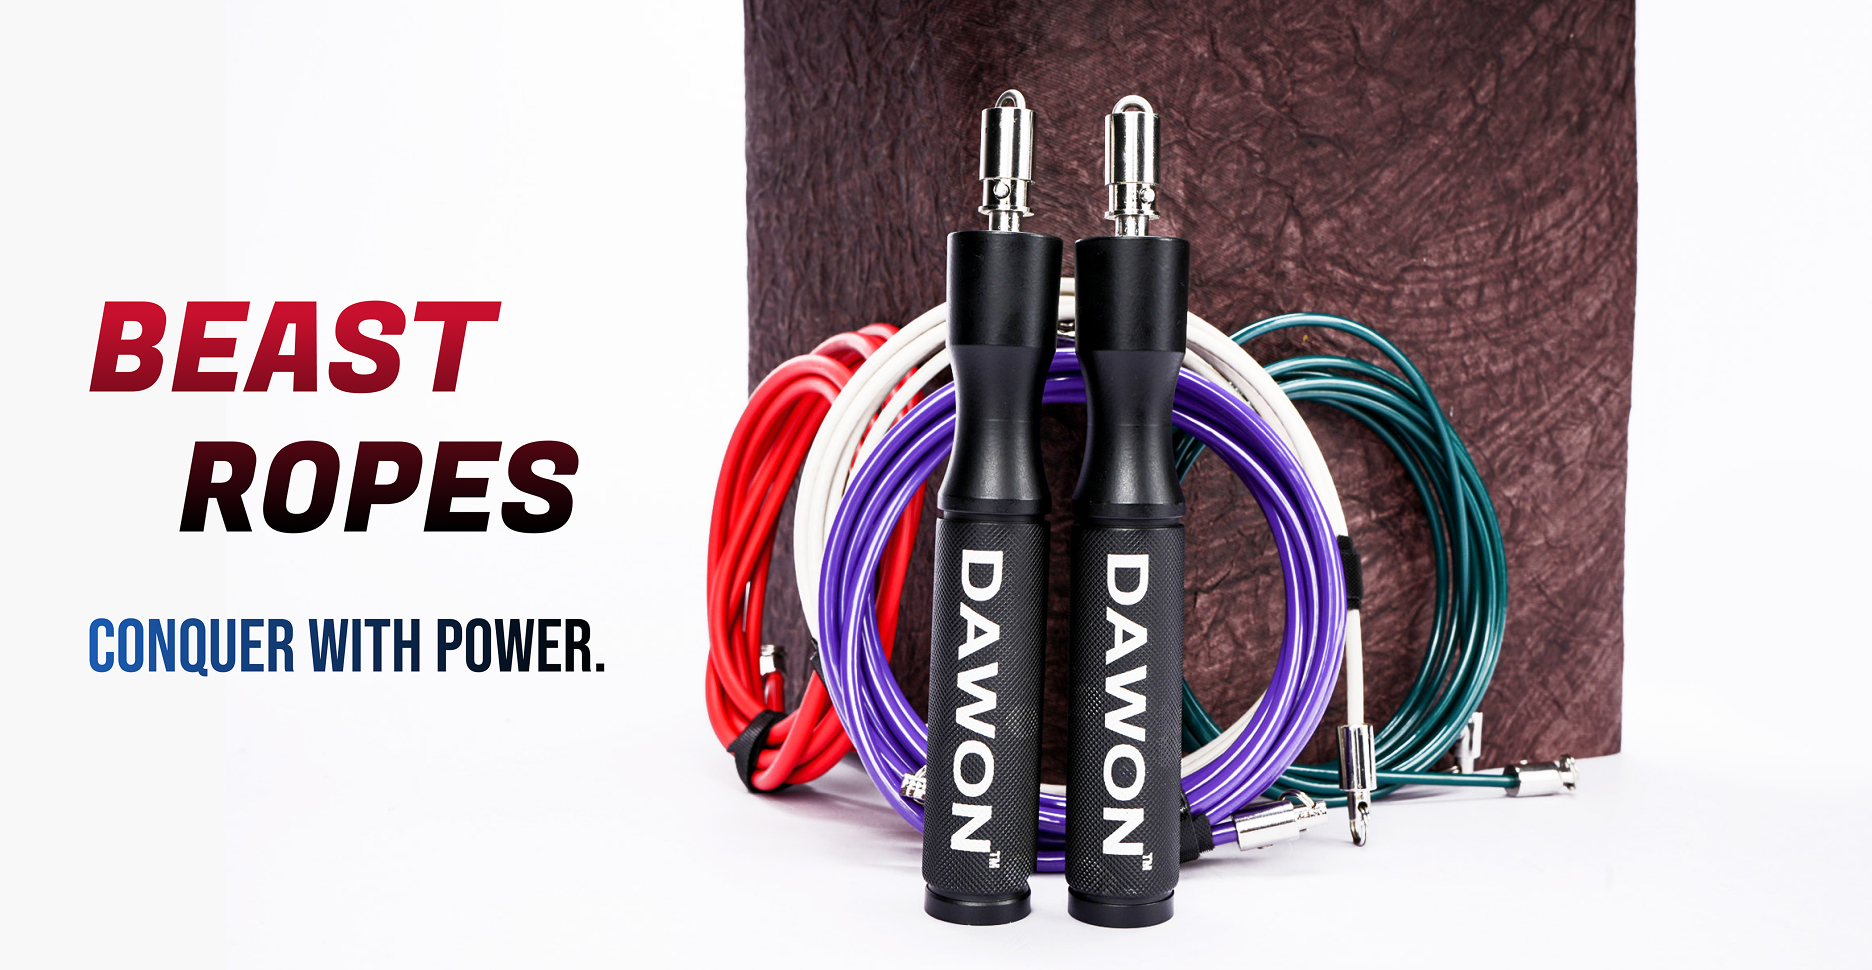
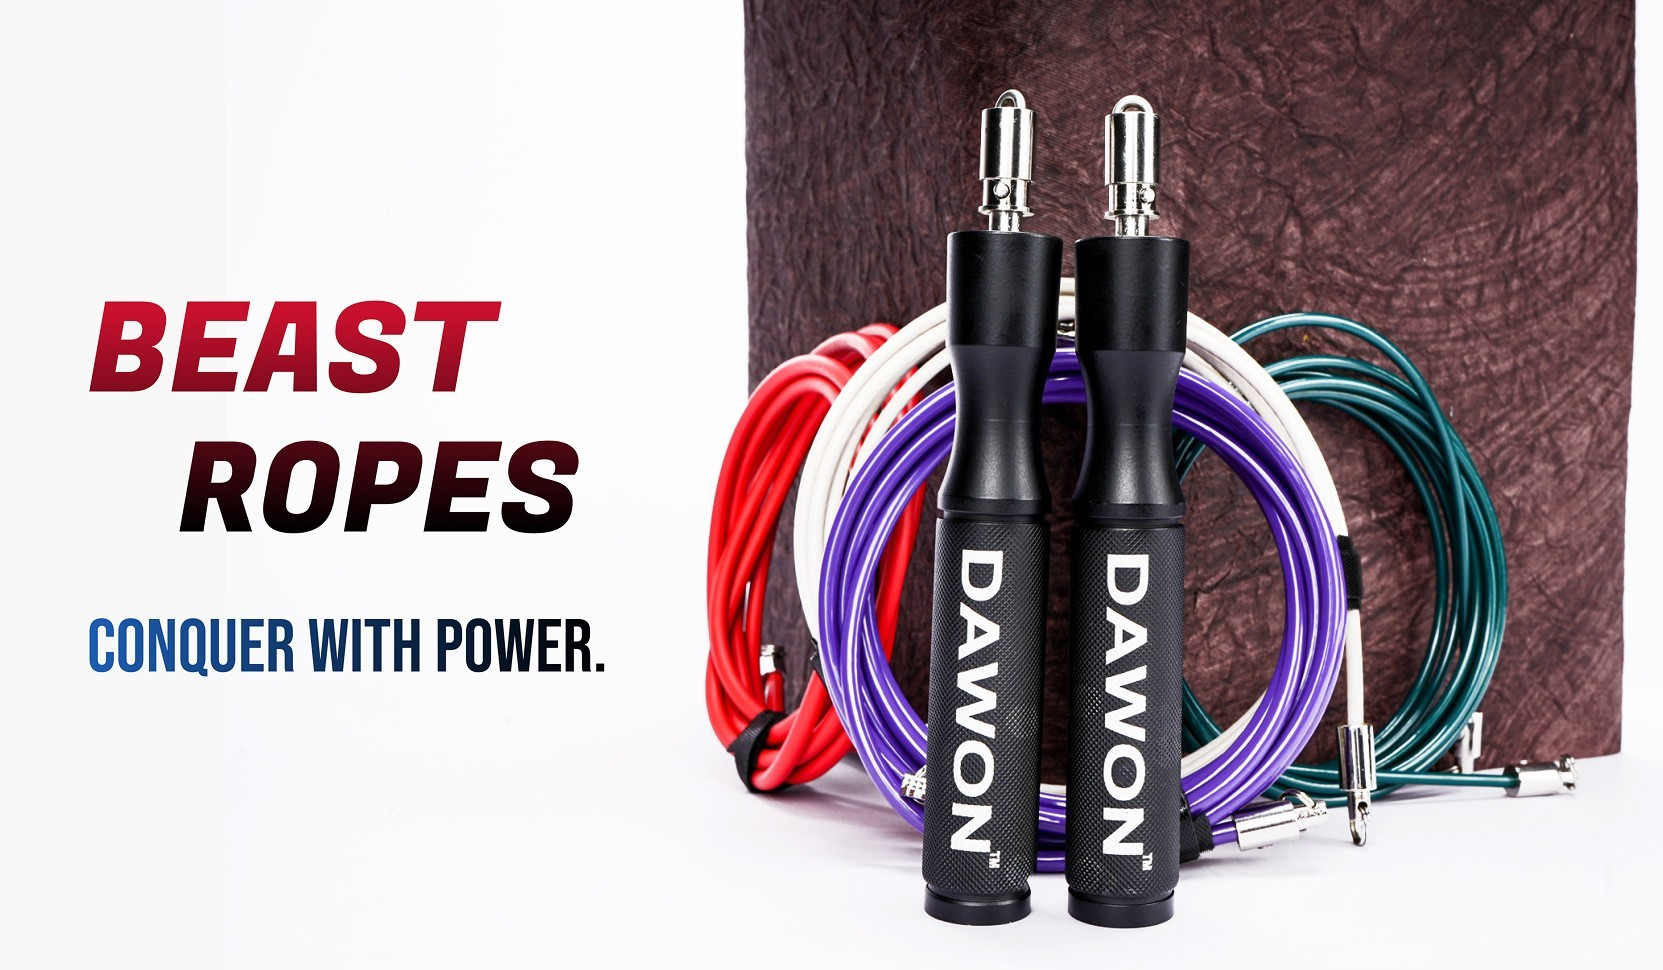
dS

diff --git a/dawonproduct.html b/dawonproduct.html
@@ -331,7 +331,7 @@ Ideal for cardio, coordination.
 
 <!-- Version for ≥1440px (Background image hero) -->
 <section class="hero d-none d-xxl-flex">
-  <img src="image/sppeeds.jpg" >
+  <img src="image/speedbanner.jpg" >
   <!-- <div class="hero-content">
     <h1><span class="speed">SPEED</span><br><span class="ropes">ROPES</span></h1>
     <p><span class="master">MASTER</span> <span class="your-motion">YOUR MOTION.</span></p>
@@ -350,8 +350,8 @@ Ideal for cardio, coordination.
           <span class="ropes">ROPES</span>
         </h1>
         <p>
-          <span class="master">MASTER</span>
-          <span class="your-motion">YOUR MOTION.</span>
+          <span class="master">LIGHT.</span>
+          <span class="your-motion">FAST.UNSTOPPABLE</span>
         </p>
       </div>
 
@@ -514,7 +514,7 @@ Perfect for refining rhythm .           </p>
 <!-- Astar  banner-->
 <!-- Version for ≥1440px (Background image hero) -->
 <section class="banner d-none d-xxl-flex">
-  <img src="image/astarbanner.png" >
+  <img src="image/astarbanner1.jpg" >
   <!-- <div class="hero-content">
     <h1><span class="speed">SPEED</span><br><span class="ropes">ROPES</span></h1>
     <p><span class="master">MASTER</span> <span class="your-motion">YOUR MOTION.</span></p>
@@ -526,7 +526,7 @@ Perfect for refining rhythm .           </p>
       <div class="row align-items-center">
         <div class="col-md-5 text-center ">
                 <h1><span class="speed">ASTAR </span><br><span class="ropes">ROPES</span></h1>
-          <h4 class="text-gradient-blue-black">POWER MEETS PRECISION.</h4>
+          <h4 class="text-gradient-blue-black">STRENGTH MEETS STYLE.</h4>
         </div>
         <div class="col-md-7 text-center">
           <img src="image/astar.png" alt="Astar Rope" class="img-fluid">
@@ -679,25 +679,37 @@ athletes pushing limits in strength.
     </div>
   </div>
 </section>
-<!--  Rope ACCESSORIES Banner - Visible above 768px -->
-<section class="heros d-none d-md-block">
-  <img src="image/ropeaccess.jpg" class="img-fluid" alt=" Rope ACCESSORIES Banner" style="width: 100%; height: 100%;">
-</section>
+<!-- beast rope banner -->
+    <section class="heros  d-none d-xxl-flex">
+      <img src="image/beastbanner.jpg">
+    <!-- <div class="heros-content">
+      <h1><span class="speed">  BEAST </span><br><span class="ropes">ROPES</span></h1>
+      <p><span class="master">CONQUER</span> <span class="your-motion"> WITH POWER.</span></p>
+    </div> -->
+  </section>
+<section class="beast-hero d-block d-xxl-none py-5">
+  <div class="container">
+    <div class="row align-items-center">
+      <!-- Left: Text Content -->
+      <div class="col-md-6 text-center  mb-4 mb-md-0">
+        <h1>
+          <span class="speed">BEAST</span><br>
+          <span class="ropes">ROPES</span>
+        </h1>
+        <p>
+          <span class="master">CONQUER</span>
+          <span class="your-motion">WITH POWER.</span>
+        </p>
+      </div>
 
-<!-- Rope ACCESSORIES -->
-  <section class="banner d-block d-md-none py-5">
-    <div class="container-fluid">
-      <div class="row align-items-center">
-        <div class="col-md-6 text-center text-md-start">
-                <h1><span class="speed">ROPE</span><br><span class="ropes" id="wa">ACCESSORIES</span></h1>
-          <h4 class="text-gradient-blue-black">LOCK IN LEVELUP.</h4>
-        </div>
-        <div class="col-md-6 text-center">
-          <img src="image/ropea.png" alt="Astar Rope" class="img-fluid">
-        </div>
+      <!-- Right: Image -->
+      <div class="col-md-6 text-center">
+        <img src="image/beast.jpg" alt="Beast Ropes" class="img-fluid">
       </div>
     </div>
-  </section>
+  </div>
+</section>
+
 
   <!--  rope accessories -->
 <section  id="accessories-section" class="py-5" >
@@ -840,24 +852,26 @@ Secure hold with evolving intensity. Ideal for growth in strength, stamina, and 
     </div>
   </div>
 </section>
- 
+ <!--  Rope ACCESSORIES Banner - Visible above 768px -->
 <section class="heros d-none d-md-block">
-  <img src="image/classicrope.jpg" class="img-fluid" alt="classic Rope Banner" style="width: 100%; height: 100%;">
+  <img src="image/ropeaccess.jpg" class="img-fluid" alt=" Rope ACCESSORIES Banner" style="width: 100%; height: 100%;">
 </section>
-<!-- CLASSIC     banner-->
-  <section class="banner  d-block d-md-none py-5">
+
+<!-- Rope ACCESSORIES -->
+  <section class="banner d-block d-md-none py-5">
     <div class="container-fluid">
       <div class="row align-items-center">
-        <div class="col-md-4 text-center text-md-start">
-                <h1><span class="speed">CLASSIC</span><br><span class="ropes">ROPES</span></h1>
-          <h4 class="text-gradient-blue-black">WHERE GRIT MEETS GRACE.</h4>
+        <div class="col-md-6 text-center text-md-start">
+                <h1><span class="speed">ROPE</span><br><span class="ropes" id="wa">ACCESSORIES</span></h1>
+          <h4 class="text-gradient-blue-black">LOCK IN LEVELUP.</h4>
         </div>
-        <div class="col-md-8 text-center">
-          <img src="image/classic.png" alt="Astar Rope" class="img-fluid">
+        <div class="col-md-6 text-center">
+          <img src="image/ropea.png" alt="Astar Rope" class="img-fluid">
         </div>
       </div>
     </div>
   </section>
+
 
   <!-- classic rope -->
 <section id="classic-ropes" class="py-5" >
@@ -1000,7 +1014,23 @@ Old-school feel meets modern performance. For those who pull.
     </div>
   </div>
 </section>
-
+<section class="heros d-none d-md-block">
+  <img src="image/classicrope.jpg" class="img-fluid" alt="classic Rope Banner" style="width: 100%; height: 100%;">
+</section>
+<!-- CLASSIC     banner-->
+  <section class="banner  d-block d-md-none py-5">
+    <div class="container-fluid">
+      <div class="row align-items-center">
+        <div class="col-md-4 text-center text-md-start">
+                <h1><span class="speed">CLASSIC</span><br><span class="ropes">ROPES</span></h1>
+          <h4 class="text-gradient-blue-black">WHERE GRIT MEETS GRACE.</h4>
+        </div>
+        <div class="col-md-8 text-center">
+          <img src="image/classic.png" alt="Astar Rope" class="img-fluid">
+        </div>
+      </div>
+    </div>
+  </section>
 <!-- faq -->
  <section class="py-5">
   <div class="container">

diff --git a/dawonproductcard.html b/dawonproductcard.html
@@ -117,7 +117,7 @@
   color: #ccc;
 }
 .accordion-body table {
-  font-family: "Roboto";
+  font-family: "Roboto Condensed";
   color: black;
   border: none;
   border-collapse: collapse;
@@ -128,15 +128,16 @@
   padding: 10px 12px;
   vertical-align: top;
   color: black !important;
-  font-family: "Roboto";
+  font-family: "Roboto Condensed";
   font-weight: bold;
 }
+
 #uy td {
   font-weight: 400; /* no bold */
   padding: 10px 12px;
   vertical-align: top;
   color: black !important;
-  font-family: "Roboto";
+  font-family: "Roboto Condensed";
 }
 
 .custom-rope-table {
@@ -476,7 +477,7 @@
         </ul>
 
         <div class="tab-content" id="materialTabContent">
-          <div class="tab-pane  tablet fade show active" id="steel" role="tabpanel">
+          <div class="tab-pane  tablet  show active" id="steel" role="tabpanel">
             <h4>STAINLESS STEEL</h4>
             <p>
               Stainless steel is a corrosion resistant iron alloy, Dawon uses 316 L stainless steel.
@@ -485,7 +486,7 @@
             </p>
           </div>
 
-          <div class="tab-pane  tablet fade" id="aluminum" role="tabpanel">
+          <div class="tab-pane  tablet " id="aluminum" role="tabpanel">
             <h4>ALUMINIUM</h4>
             <p>
               Dawon uses high-grade 6606 aluminum alloy to craft the handles, ensuring a perfect balance of
@@ -494,7 +495,7 @@
             </p>
           </div>
 
-          <div class="tab-pane  tablet fade" id="spring" role="tabpanel">
+          <div class="tab-pane  tablet " id="spring" role="tabpanel">
             <h4>SPRING STEEL</h4>
             <p>
               Spring steel is a steel alloy with high elasticity. Dawon uses AISI 1095 steel for withstanding
@@ -503,7 +504,7 @@
             </p>
           </div>
 
-          <div class="tab-pane  tablet fade" id="carbon" role="tabpanel">
+          <div class="tab-pane  tablet " id="carbon" role="tabpanel">
             <h4>HIGH CARBON STEEL</h4>
             <p>
              This product is built with high carbon steel components that offer exceptional strength, durability,

diff --git a/css/style.css b/css/style.css
@@ -820,7 +820,7 @@ font-size: 22px;
   margin-bottom: 20px;
   overflow: hidden;
   background-color: #fff;
-  font-family: "Roboto";
+  font-family: "Roboto Condensed";
 }
 
 /* .accordion-button::before {
